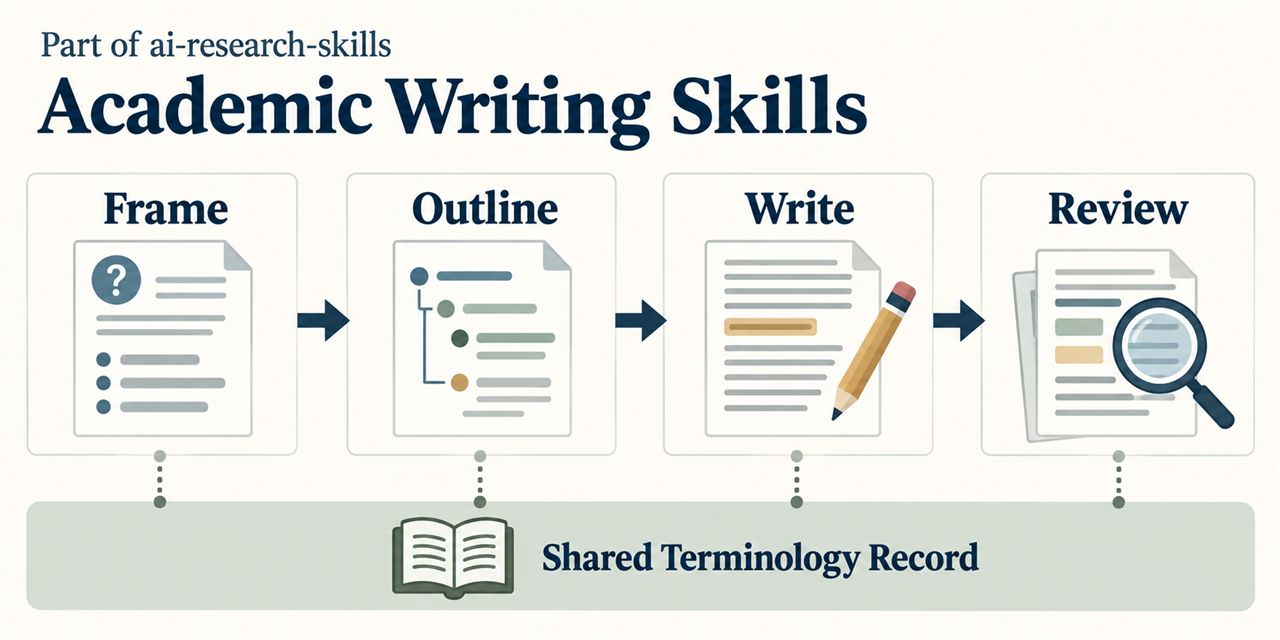
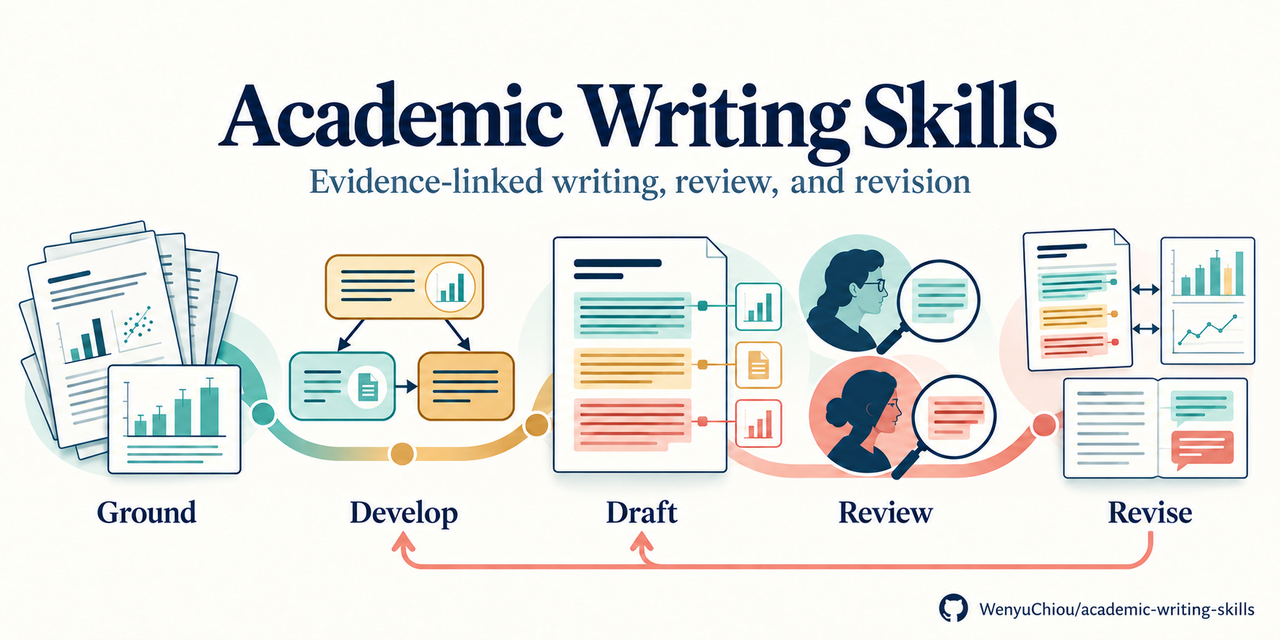
docs(readme): Refresh branded workflow cover
Use the selected imagegen raster illustration in both README entry points,
with matching alt text and explicit generation provenance. Include a 1280x640
social-preview derivative that preserves the complete composition and branding.
Update the existing PNG delivery contract to the original's 1774x887 dimensions.

Review: code-reviewer /root/code_reviewer APPROVE, no findings.
Trigger: five-file shipping output and delegated task; reviewed staged tree
6bf7b00cafcecb871acedd039b20885c61041db7.
Validation: 220 passed, 2 skipped; bilingual mirror/link and PNG checks PASS;
manual image inspection PASS. No skill, version, or release changes.

diff --git a/tests/test_readme_assets.py b/tests/test_readme_assets.py
@@ -66,7 +66,7 @@ def test_workflow_and_shared_record_boundaries_remain_visible(name, required):
 @pytest.mark.parametrize(
     ("name", "expected_size", "maximum_bytes"),
     [
-        ("workflow-cover.png", (1891, 831), 2_000_000),
+        ("workflow-cover.png", (1774, 887), 2_000_000),
         ("social-preview.png", (1280, 640), 1_000_000),
     ],
 )

diff --git a/README.md b/README.md
@@ -11,7 +11,9 @@ Use with **Codex**, **Claude Code**, **OpenCode**, **Hermes Agent**, and other A
 
 [繁體中文](./README.zh-TW.md)
 
-![Workflow: Frame and Outline, Plan and Write, Check and Revise, Section Review, and Full-Paper Review; one shared terminology record supports every stage.](./docs/images/workflow-cover.png)
+![Academic writing workflow: Ground, Develop, Draft, Review, and Revise, with evidence linked to the manuscript and a revision loop back to development and drafting.](./docs/images/workflow-cover.png)
+
+*Cover illustration created with ChatGPT’s built-in image generation (raster PNG).*
 
 ## What you can do
 

diff --git a/README.zh-TW.md b/README.zh-TW.md
@@ -11,7 +11,9 @@
 
 [English](./README.md) | 繁體中文
 
-![流程：研究定位與大綱、規劃與撰寫、檢查與修改、章節審查、整篇審查；共用詞彙紀錄貫穿每個階段。](./docs/images/workflow-cover.png)
+![學術寫作流程：以證據為基礎（Ground）、發展論證（Develop）、撰稿（Draft）、審閱（Review）、修訂（Revise），將證據連結至手稿，並回到論證與撰稿階段反覆修訂。](./docs/images/workflow-cover.png)
+
+*封面插圖由 ChatGPT 內建影像生成功能製作，為 PNG 點陣圖。*
 
 ## 可以協助什麼
 
